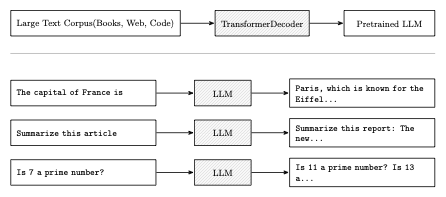
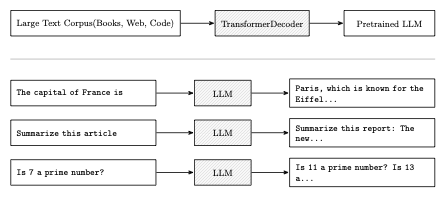
Move divider line slightly lower in Stage 1 diagram

Changed region(s): [[0.0291, 0.2437, 0.991, 0.3046]]

diff --git a/Sp26/CSCE775/Project/Proposal_llm_5/survey.tex b/Sp26/CSCE775/Project/Proposal_llm_5/survey.tex
@@ -80,7 +80,7 @@ Modern pretraining has grown substantially in scale. DeepSeek-V3 (December 2024)
 \draw[flowarrow] (transformer) -- (pretrained);
 
 % ---- Divider ----
-\draw[thick, black!30] ([yshift=-0.6cm]corpus.south west) -- ([yshift=-0.6cm]pretrained.south east);
+\draw[thick, black!30] ([yshift=-0.8cm]corpus.south west) -- ([yshift=-0.8cm]pretrained.south east);
 
 % ---- Bottom: Example I/O (centered, equal widths) ----
 \coordinate (figcenter) at ($(corpus.west)!0.5!(pretrained.east)$);

diff --git a/Sp26/CSCE775/Project/Proposal_llm_5/fig_stage1.tex b/Sp26/CSCE775/Project/Proposal_llm_5/fig_stage1.tex
@@ -23,7 +23,7 @@
 \draw[flowarrow] (transformer) -- (pretrained);
 
 % ---- Divider ----
-\draw[thick, black!30] ([yshift=-0.6cm]corpus.south west) -- ([yshift=-0.6cm]pretrained.south east);
+\draw[thick, black!30] ([yshift=-0.8cm]corpus.south west) -- ([yshift=-0.8cm]pretrained.south east);
 
 % ---- Bottom: Example I/O (centered, equal widths) ----
 % Center point of the full figure width
